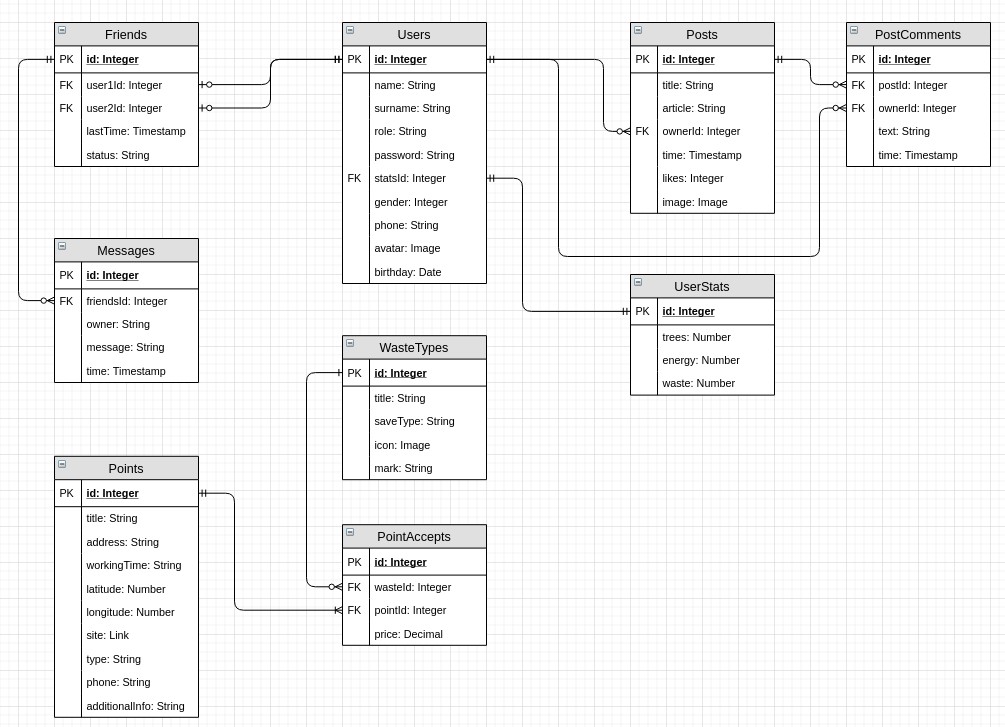
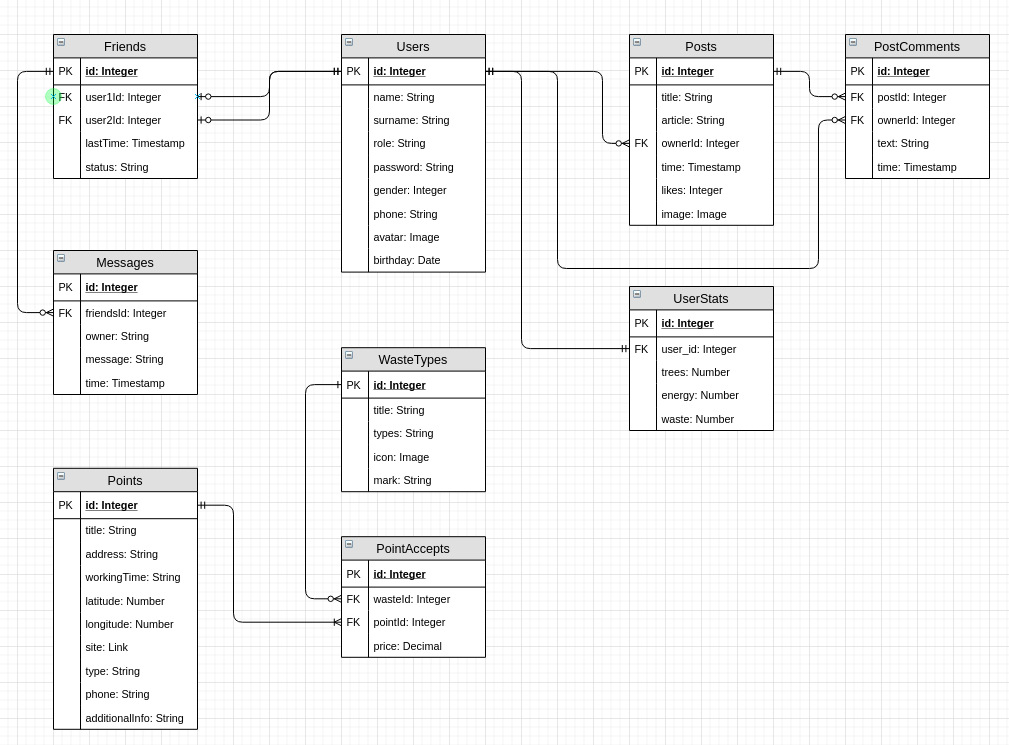
db: schema update

diff --git a/02_Database/01_Tables/03_Friends.md b/02_Database/01_Tables/03_Friends.md
@@ -38,7 +38,7 @@ Statuses:
         <li>Foreign Key</li>
       </ul>
     </td>
-    <td>1 to 0 or many, users has 0 or more friends. See <a href="./01_Users.md">Users</a></td>
+    <td>1 to 0 or many, users has 0 or more friends. See <a href="./01_Users.md">Users</a>. On delete: CASCADE</td>
   </tr>
   <tr>
     <td>user_2_id</td>
@@ -49,7 +49,7 @@ Statuses:
         <li>Foreign Key</li>
       </ul>
     </td>
-    <td>1 to 0 or many, users has 0 or more friends. See <a href="./01_Users.md">Users</a></td>
+    <td>1 to 0 or many, users has 0 or more friends. See <a href="./01_Users.md">Users</a>. On delete: CASCADE</td>
   </tr>
   <tr>
     <td>last_time</td>

diff --git a/02_Database/01_Tables/01_Users.md b/02_Database/01_Tables/01_Users.md
@@ -66,18 +66,6 @@ tr > td:first-of-type {
     <td>Encrypted password</td>
   </tr>
   <tr>
-    <td>stats_id</td>
-    <td>
-      <ul>
-        <li>Integer</li>
-        <li>Not Null</li>
-        <li>Unique</li>
-        <li>Foreign Key</li>
-      </ul>
-    </td>
-    <td>1 to 1 reference, Each user has one and only one row of his statistics. See <a href="./02_UserStats.md">User Stats</a></td>
-  </tr>
-  <tr>
     <td>gender</td>
     <td>
       <ul>

diff --git a/02_Database/01_Tables/02_UserStats.md b/02_Database/01_Tables/02_UserStats.md
@@ -24,6 +24,18 @@ tr > td:first-of-type {
     <td>Unique id</td>
   </tr>
   <tr>
+    <td>user_id</td>
+    <td>
+      <ul>
+        <li>Integer</li>
+        <li>Not Null</li>
+        <li>Unique</li>
+        <li>Foreign Key</li>
+      </ul>
+    </td>
+    <td>1 to 1 reference, Each user has one and only one row of his statistics. See <a href="./01_Users.md">Users</a></td>
+  </tr>
+  <tr>
     <td>trees</td>
     <td>
       <ul>

diff --git a/02_Database/01_Tables/04_Messages.md b/02_Database/01_Tables/04_Messages.md
@@ -32,7 +32,7 @@ tr > td:first-of-type {
         <li>Foreign Key</li>
       </ul>
     </td>
-    <td>Many messages are related to 1 friends relationship. See <a href="./03_Friends.md">Friends</a></td>
+    <td>Many messages are related to 1 friends relationship. See <a href="./03_Friends.md">Friends</a>. On delete: CASCADE</td>
   </tr>
   <tr>
     <td>owner</td>
